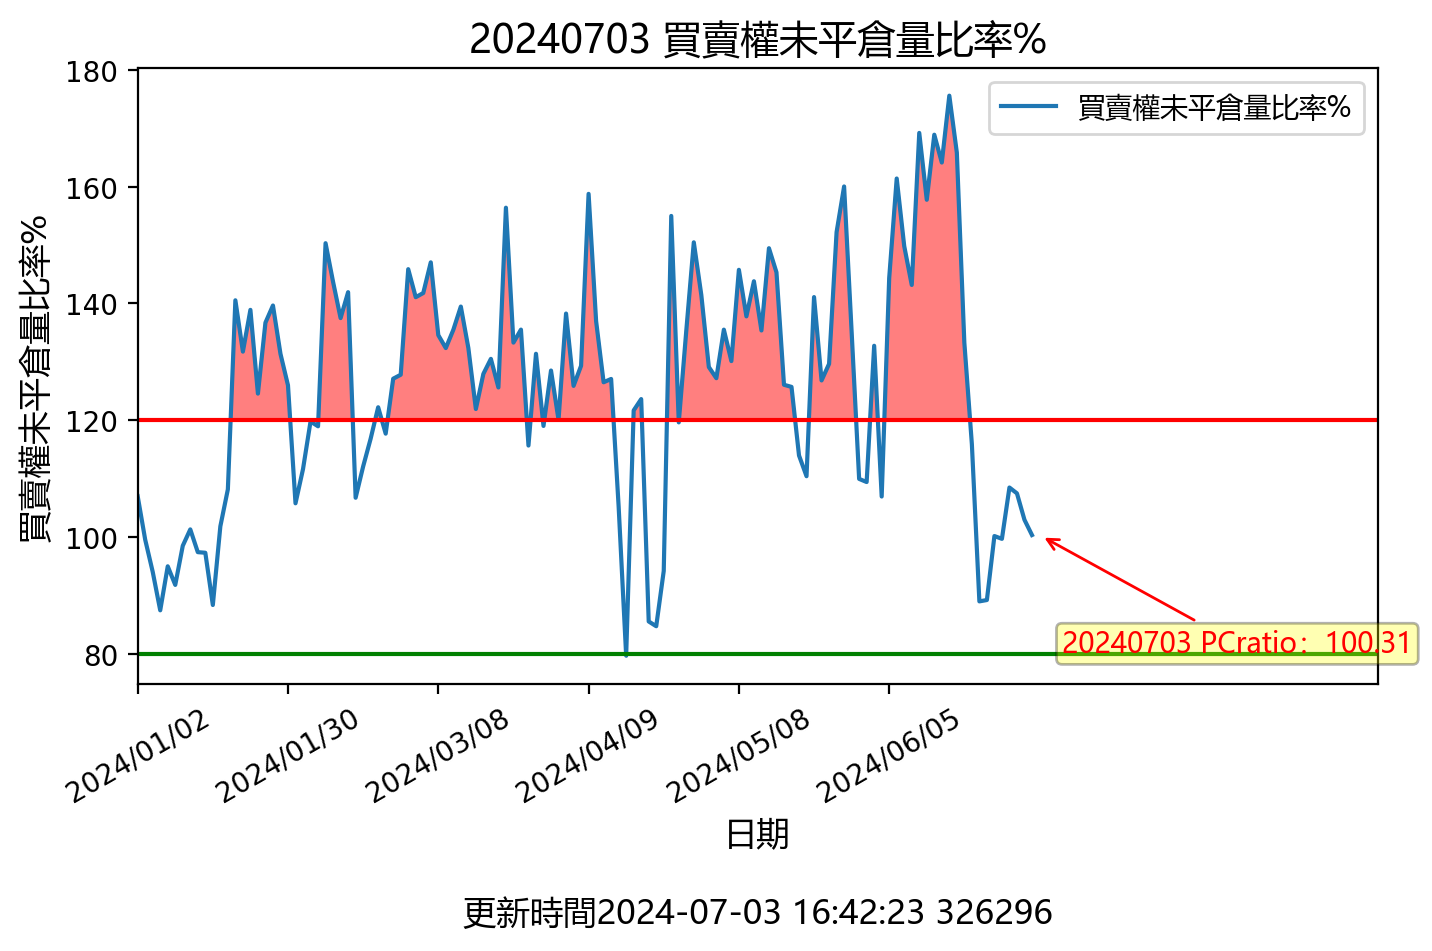
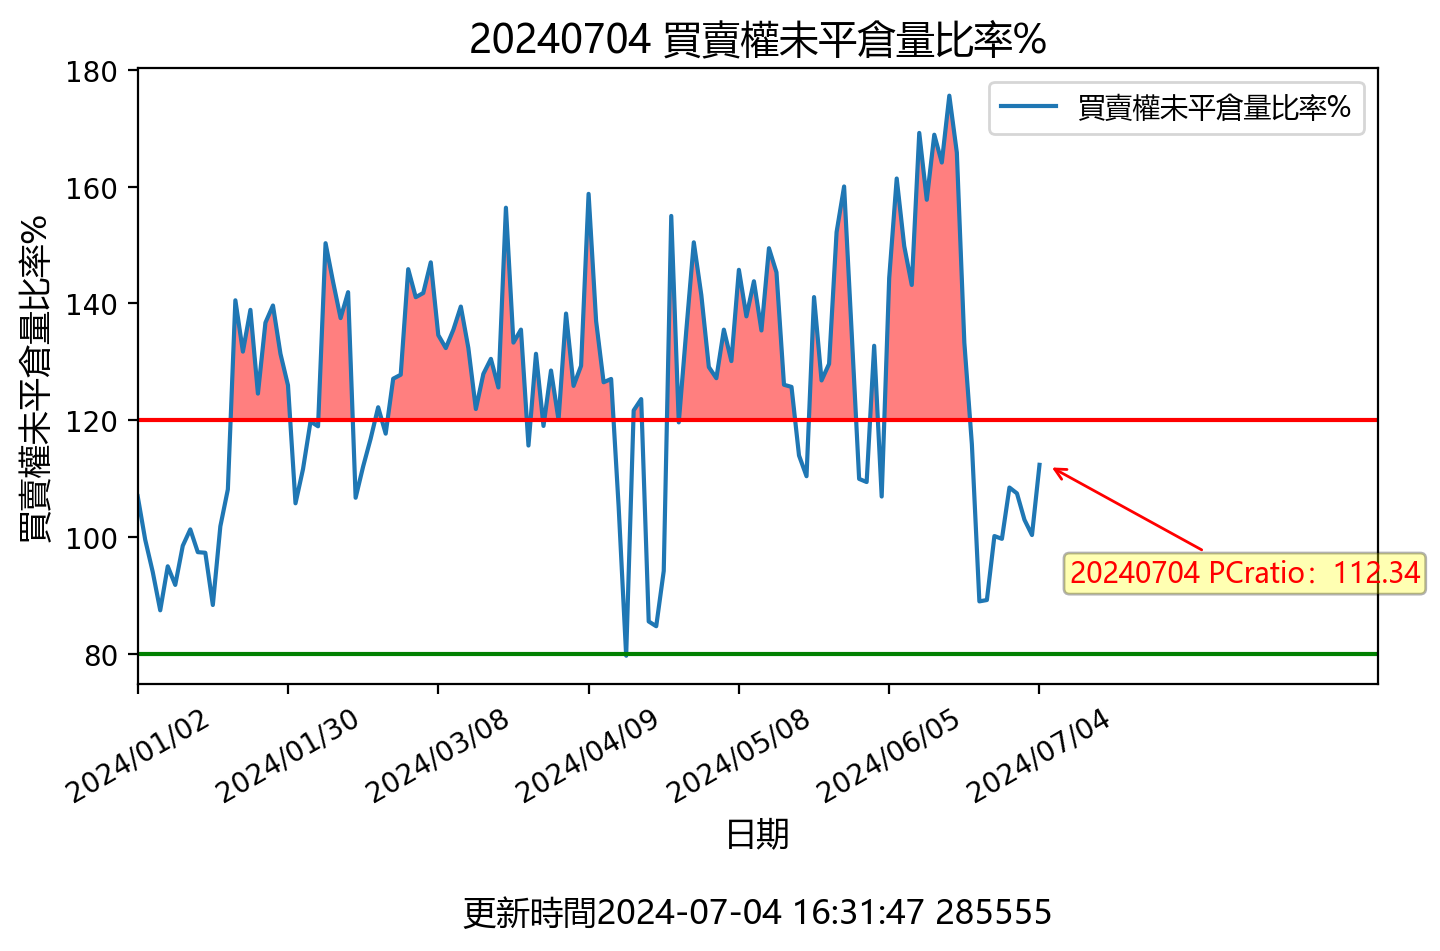
更新時間: Thu Jul  4 16:32:02 CST 2024

diff --git a/README.md b/README.md
@@ -1,12 +1,12 @@
-## 20240703 台指期「預估換倉成本」
+## 20240704 台指期「預估換倉成本」
 ![](images/txfcost.png)
 
-## 20240703 台指期「散戶小台多空比」
+## 20240704 台指期「散戶小台多空比」
 ![](images/bbiri.png)
 
-## 20240703 台指選擇權「Put/Call Ratios」
+## 20240704 台指選擇權「Put/Call Ratios」
 ![](images/pcratio.png)
 
-## 20240703 台指期「大額交易人」
+## 20240704 台指期「大額交易人」
 ![](images/blocktrade.png)
 
